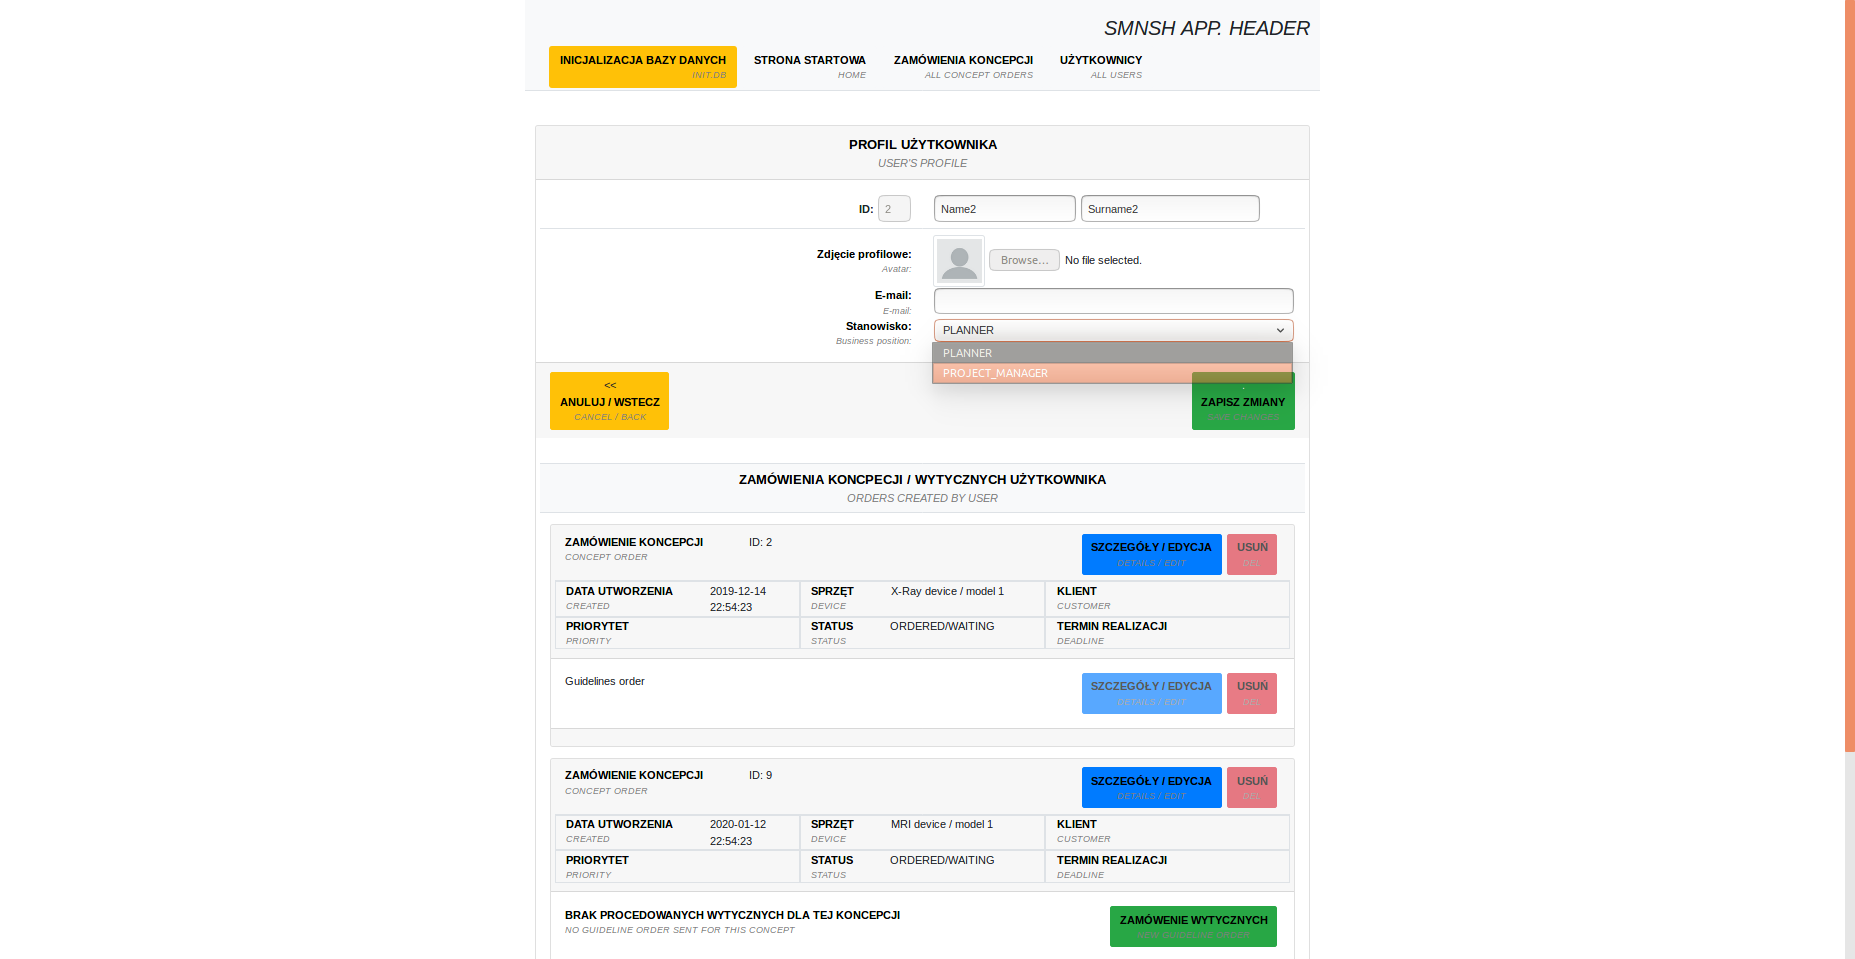
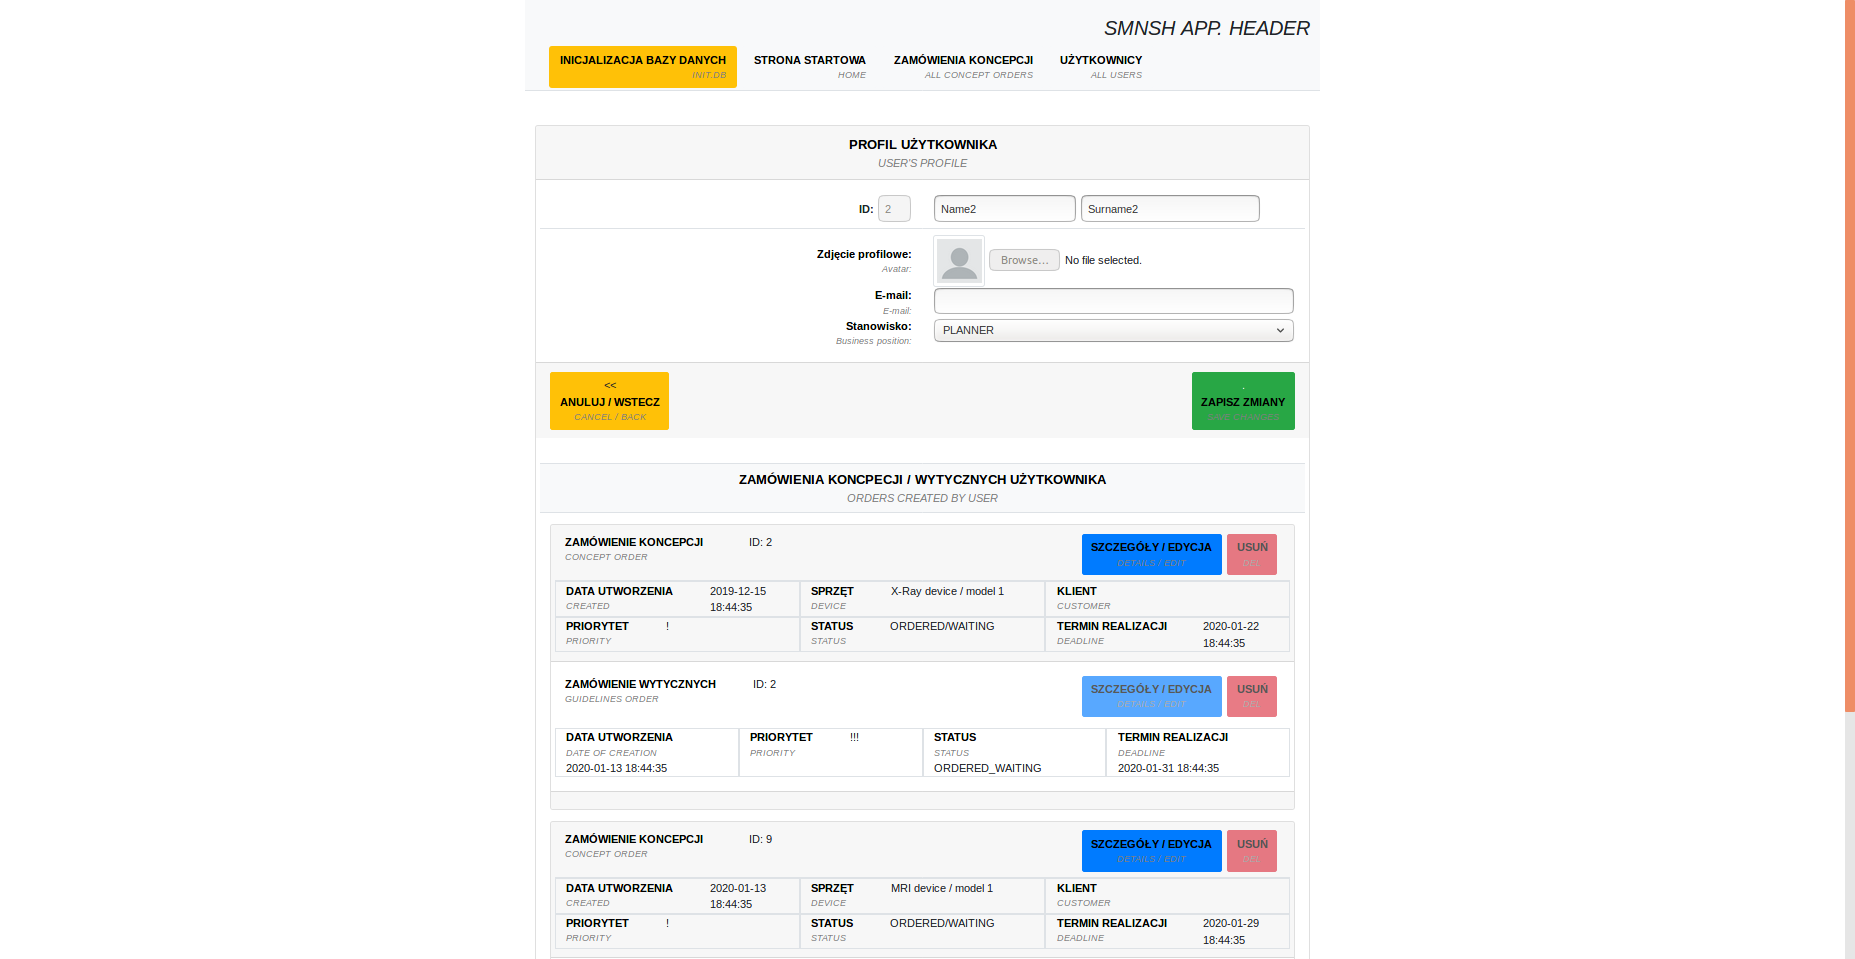
# 0.0.8.4     + user profile page update     + guidelines in init. DB updates     + readme.md update

Changed region(s): [[0.2765, 0.635, 0.7067, 1.0], [0.4916, 0.3326, 0.7067, 0.4234], [0.9833, 0.7258, 1.0, 0.7862]]

diff --git a/src/main/java/pl/krzysztofskul/HomePageService.java b/src/main/java/pl/krzysztofskul/HomePageService.java
@@ -9,6 +9,7 @@ import pl.krzysztofskul.device.Device;
 import pl.krzysztofskul.device.DeviceService;
 import pl.krzysztofskul.investor.Investor;
 import pl.krzysztofskul.investor.InvestorService;
+import pl.krzysztofskul.order.Status;
 import pl.krzysztofskul.order.concept.Concept;
 import pl.krzysztofskul.order.concept.ConceptService;
 import pl.krzysztofskul.order.guideline.Guideline;
@@ -138,10 +139,12 @@ public class HomePageService {
             concept.setDescription("Lorem ipsum dolor sit amet mi eget sapien. Aliquam quis tortor. Cras volutpat ligula enim.");
             concept.setRemarks("Phasellus vitae ante. Duis non.");
             concept.setDevice(deviceService.loadById(Long.parseLong("1")));
+            concept.setPriority("!");
             conceptService.save(concept);
             /** change dates of creation */
             concept = conceptService.loadById(Long.parseLong(String.valueOf(i)));
             concept.setDateTimeCreated(LocalDateTime.now().minusDays(31-i));
+            concept.setDateTimeDeadline(LocalDateTime.now().plusDays(7+i));
             conceptService.save(concept);
         }
         /** create additional concepts to first two users */
@@ -152,6 +155,8 @@ public class HomePageService {
             concept.setDescription("Drogi Marszałku, Wysoka Izbo. PKB rośnie. Różnorakie i rozwijanie struktur umożliwia w restrukturyzacji przedsiębiorstwa. Jednakże.");
             concept.setRemarks("Izbo, inwestowanie w większym stopniu.");
             concept.setDevice(deviceService.loadById(Long.parseLong("4")));
+            concept.setPriority("!");
+            concept.setDateTimeDeadline(LocalDateTime.now().plusDays(7+i));
             conceptService.save(concept);
         }
         for (int i = 9; i <= 9; i++) {
@@ -161,6 +166,8 @@ public class HomePageService {
             concept.setDescription("Początek traktatu czasu panowania Fryderyka Wielkiego, Króla Pruskiego żył w.");
             concept.setRemarks("Na przykład w kolei przypadków.");
             concept.setDevice(deviceService.loadById(Long.parseLong("7")));
+            concept.setPriority("!");
+            concept.setDateTimeDeadline(LocalDateTime.now().plusDays(7+i));
             conceptService.save(concept);
         }
     }
@@ -172,6 +179,9 @@ public class HomePageService {
             guideline.setAuthor(userService.loadById(Long.parseLong(String.valueOf(i))));
             guideline.setTitle("Guidelines order");
             guideline.setConcept(conceptService.loadById(Long.parseLong(String.valueOf(i))));
+            guideline.setStatus(Status.ORDERED_WAITING);
+            guideline.setPriority("!!!");
+            guideline.setDateTimeDeadline(LocalDateTime.now().plusDays(14+2*i));
             guidelineService.save(guideline);
         }
     }

diff --git a/src/main/java/pl/krzysztofskul/order/guideline/Guideline.java b/src/main/java/pl/krzysztofskul/order/guideline/Guideline.java
@@ -8,6 +8,8 @@ import pl.krzysztofskul.order.concept.Concept;
 import javax.persistence.Entity;
 import javax.persistence.ManyToOne;
 import javax.persistence.OneToOne;
+import javax.persistence.PrePersist;
+import java.time.LocalDateTime;
 
 @Entity
 public class Guideline extends Order {
@@ -64,5 +66,15 @@ public class Guideline extends Order {
 
     public void setDevice(Device device) {
         this.device = device;
+    }
+
+    /**
+     * methods
+     */
+
+    @PrePersist
+    public void prePersist() {
+        this.setDateTimeCreated(LocalDateTime.now());
+        setStatus(Status.ORDERED_WAITING);
     }
 }

diff --git a/README.md b/README.md
@@ -42,4 +42,4 @@ technology in hospitals*
 
 **Project Manager**
 
-- Dla wykonanych projektów koncepcji, utwórz zamówienie wykonania wytycznych instalacyjnych | *For fisnished ceoncept designs, create new order for installation guidelines design*
+- Dla wykonanych projektów koncepcji, utwórz zamówienie wykonania wytycznych instalacyjnych | *For fisnished concept designs, create new order for installation guidelines design*
